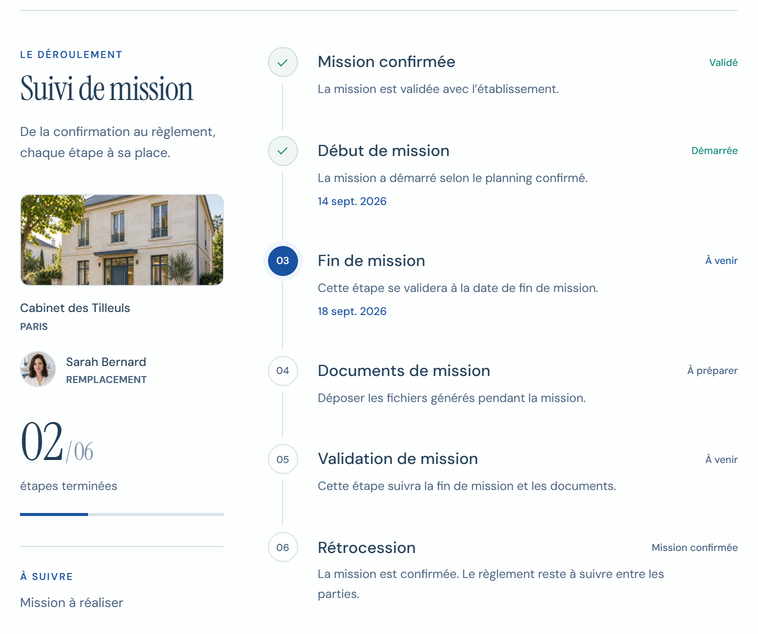
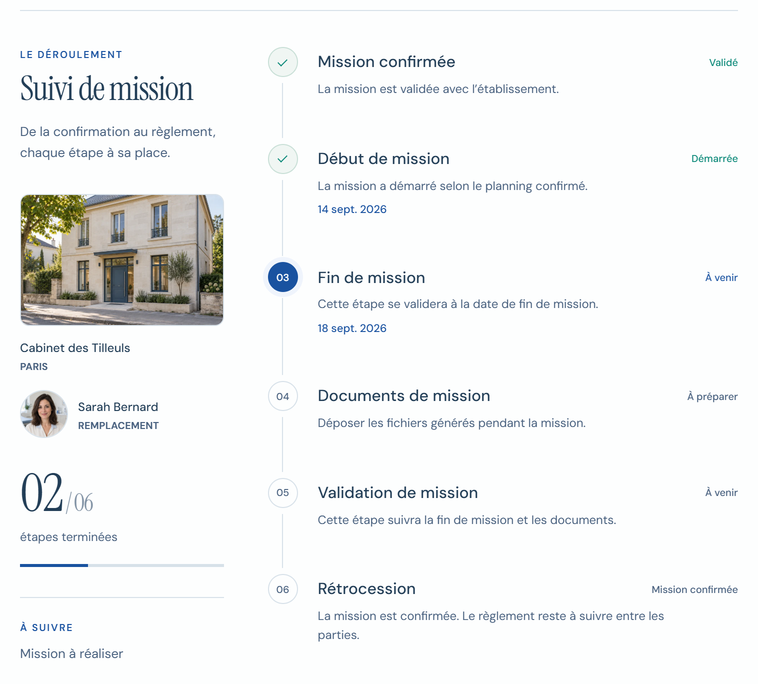
fix: refine landing preview corners and enlarge interface photos

diff --git a/medilink-frontend-v2-polished/app/workspace-messages.css b/medilink-frontend-v2-polished/app/workspace-messages.css
@@ -47,7 +47,7 @@
 .workspace-design .message-layout--editorial .conversation-mobile-search svg { flex-shrink: 0; color: var(--brand-muted); }
 .workspace-design .message-layout--editorial .conversation-mobile-search input { font-size: 12px; }
 .workspace-design .message-layout.message-layout--editorial .conversation-button {
-  grid-template-columns: 40px minmax(0, 1fr);
+  grid-template-columns: 52px minmax(0, 1fr);
   align-items: start;
   gap: 11px;
   padding: 17px 12px;
@@ -62,8 +62,8 @@
 }
 .workspace-design .message-layout--editorial .conversation-button:hover { background: var(--brand-mist); }
 .workspace-design .message-layout.message-layout--editorial .conversation-mobile-avatar {
-  width: 40px;
-  height: 40px;
+  width: 52px;
+  height: 52px;
   border: 0;
   border-radius: 50%;
   background: transparent;
@@ -73,6 +73,7 @@
 }
 .workspace-design .message-layout.message-layout--editorial .conversation-photo--establishment { border-radius: 12px; }
 .workspace-design .message-layout--editorial .conversation-header-title-wrapper { gap: 13px; }
+.workspace-design .message-layout--editorial .conversation-header-photo { width: 64px; height: 64px; }
 .workspace-design .message-layout--editorial .conversation-title-meta { min-width: 0; }
 .workspace-design .message-layout--editorial .conversation-mobile-head { gap: 5px; }
 .workspace-design .message-layout--editorial .conversation-mobile-head strong { font-size: 13px; line-height: 1.5; font-weight: 600; }
@@ -175,7 +176,7 @@
 }
 .workspace-design .message-layout--editorial .message-row.mine { flex-direction: row-reverse; margin-left: auto; }
 .workspace-design .message-layout--editorial .message-row > .message { max-width: none; min-width: 0; margin-left: 0; }
-.workspace-design .message-layout--editorial .message-sender-photo { width: 34px; height: 34px; margin-bottom: 2px; font-size: 15px; }
+.workspace-design .message-layout--editorial .message-sender-photo { width: 50px; height: 50px; margin-bottom: 2px; font-size: 19px; }
 .workspace-design .message-layout--editorial .message .small { margin-top: 11px; color: var(--brand-muted); font-size: 9px; }
 .workspace-design .message-layout.message-layout--editorial .message-form {
   align-items: center;
@@ -229,7 +230,7 @@
   .workspace-design .message-layout--editorial .conversation-header-top { flex: 1 1 100%; }
   .workspace-design .message-layout--editorial .conversation-title-meta h2 { font-size: 24px; line-height: 1.1; }
   .workspace-design .message-layout--editorial .conversation-header-title-wrapper { gap: 9px; }
-  .workspace-design .message-layout--editorial .conversation-header-photo { width: 38px; height: 38px; }
+  .workspace-design .message-layout--editorial .conversation-header-photo { width: 52px; height: 52px; }
   .workspace-design .message-layout--editorial .conversation-subtitle { margin-top: 6px; font-size: 10px; }
   .workspace-design .message-layout--editorial .conversation-back-button { width: 32px; height: 44px; min-width: 32px; padding: 0; border: 0; background: transparent; box-shadow: none; }
   .workspace-design .message-layout--editorial .conversation-header-actions { margin-left: 44px; gap: 14px; flex-wrap: wrap; }
@@ -243,7 +244,7 @@
   .workspace-design .message-layout--editorial .message:not(.system) { max-width: 91%; padding: 13px 15px 10px; font-size: 13px; line-height: 1.65; }
   .workspace-design .message-layout--editorial .message-row { max-width: 100%; gap: 8px; }
   .workspace-design .message-layout--editorial .message-row > .message { max-width: none; }
-  .workspace-design .message-layout--editorial .message-sender-photo { width: 32px; height: 32px; }
+  .workspace-design .message-layout--editorial .message-sender-photo { width: 44px; height: 44px; }
   .workspace-design .message-layout--editorial .message .small { margin-top: 9px; }
   .workspace-design .message-layout.message-layout--editorial .message-form { margin: 0 17px; padding: 13px 0 16px; gap: 9px; }
   .workspace-design .message-layout--editorial .message-form .textarea { min-height: 48px; padding: 12px; font-size: 16px; }

diff --git a/medilink-frontend-v2-polished/components/ReplacementDossier.tsx b/medilink-frontend-v2-polished/components/ReplacementDossier.tsx
@@ -6,13 +6,18 @@ import { api, apiFetch, ApiError, getApiUrl, isMockStorageUrl, openDocumentPrevi
 import { errorMessage } from '@/lib/user-facing';
 import { currentDossierDocument, dossierCategories, dossierCategoryFor, dossierDate, dossierDocumentHints, dossierDocumentIsCurrent, dossierDocumentLabels, dossierFieldLabels, dossierKindAllowsMultiple, dossierRecipientLabels, dossierUploadKinds, type DossierCategory, type DossierDocument, type DossierDocumentKind, type DossierRecipientType, type DossierUploadKind, type ReplacementDetails, type ReplacementDossierData } from '@/lib/replacement-dossier';
 import { Alert, Button, Field, Input, Select, Textarea } from '@/components/ui';
+import { ProfileAvatar } from '@/components/ProfileAvatar';
 
 type UploadResponse = { documentId: string; uploadUrl: string; method: string; headers: Record<string, string> };
 type Panel = 'details' | 'upload' | 'send' | 'manage' | null;
 type RegisterRow = { kind: DossierDocumentKind; document?: DossierDocument } | { kind: 'PLATFORM_RECEIPT' };
+type DossierPresentation = {
+  establishment?: { name: string; imageUrl?: string | null; city?: string | null };
+  replacement?: { name: string; imageUrl?: string | null };
+};
 const PAGE_SIZE = 3;
 
-export function ReplacementDossier({ applicationId, viewer, conversationId, paymentReleased = false }: { applicationId: string; viewer: 'candidate' | 'establishment'; conversationId?: string; paymentReleased?: boolean }) {
+export function ReplacementDossier({ applicationId, viewer, conversationId, paymentReleased = false, presentation }: { applicationId: string; viewer: 'candidate' | 'establishment'; conversationId?: string; paymentReleased?: boolean; presentation?: DossierPresentation }) {
   const path = `/applications/${applicationId}/dossier`;
   const registerId = useId();
   const [category, setCategory] = useState<DossierCategory>('replacement');
@@ -255,6 +260,27 @@ export function ReplacementDossier({ applicationId, viewer, conversationId, paym
       <div><span className="rd-eyebrow">Le dossier partagé</span><h2>Vos <em>documents.</em></h2></div>
       <span className="rd-shared" aria-label="Espace partagé"><FolderOpen size={21} strokeWidth={1.3} /></span>
     </header>
+
+    {presentation?.establishment || presentation?.replacement ? (
+      <div className="rd-participants" role="group" aria-label="Établissement et profil du remplaçant">
+        {presentation.establishment ? (
+          <div className="rd-participant rd-place">
+            <ProfileAvatar src={presentation.establishment.imageUrl} name={presentation.establishment.name} className="rd-place-photo" decorative />
+            <div className="rd-participant-details">
+              <span>Établissement</span>
+              <strong>{presentation.establishment.name}</strong>
+              {presentation.establishment.city ? <small>{presentation.establishment.city}</small> : null}
+            </div>
+          </div>
+        ) : null}
+        {presentation.replacement ? (
+          <div className="rd-participant rd-replacement">
+            <ProfileAvatar src={presentation.replacement.imageUrl} name={presentation.replacement.name} className="rd-replacement-photo" decorative />
+            <div className="rd-participant-details"><span>Remplaçant</span><strong>{presentation.replacement.name}</strong></div>
+          </div>
+        ) : null}
+      </div>
+    ) : null}
 
     <div className="rd-mission-context">
       <p>{dossier.details.holderName || 'Médecin remplacé'}<span aria-hidden="true"> & </span>{dossier.details.replacementName || 'Remplaçant'}</p>

diff --git a/medilink-frontend-v2-polished/app/(public-home)/interface-previews.css b/medilink-frontend-v2-polished/app/(public-home)/interface-previews.css
@@ -31,7 +31,11 @@ html body.landing-home:not(.persona-page) .ml-interface-preview {
   background: transparent;
   box-shadow: none;
 }
-.landing-home .ml-interface-open picture { position: relative; display: block; overflow: hidden; background: var(--brand-paper); }
+.landing-home .ml-interface-open picture { position: relative; display: block; overflow: hidden; border-radius: var(--ml-interface-capture-radius, 0); background: var(--brand-paper); }
+/* Follow the native corners at every rendered size, hiding the page background
+   captured outside them without cutting through the application's own border. */
+.landing-home .ml-interface-preview--messages picture { --ml-interface-capture-radius: calc(100% * 22 / var(--ml-capture-width)) / calc(100% * 22 / var(--ml-capture-height)); }
+.landing-home .ml-interface-preview--documents picture { --ml-interface-capture-radius: calc(100% * 14 / var(--ml-capture-width)) / calc(100% * 14 / var(--ml-capture-height)); }
 .landing-home .ml-interface-open img { display: block; width: 100%; height: auto; max-width: 100%; }
 .landing-home .ml-interface-open:focus-visible { outline: 2px solid var(--brand-focus); outline-offset: 5px; border-radius: 24px; }
 .landing-home .ml-interface-preview--wide .ml-interface-stage { padding: 36px; }
@@ -54,13 +58,15 @@ html body.landing-home:not(.persona-page) .ml-interface-preview {
 @media (max-width: 700px) {
   html body.landing-home:not(.persona-page) .ml-interface-preview { width: 100%; max-width: 440px; margin-inline: auto; }
   .landing-home .ml-interface-preview .ml-interface-stage { padding: 22px 18px; border-radius: 24px; }
-  .landing-home .ml-interface-window { width: min(100%, 310px); margin-inline: auto; padding: 6px; border: 1px solid #bdccde; border-radius: 26px; background: #fdfefe; box-shadow: 0 20px 35px -21px #1e42655c, 0 2px 5px #1e42650a; }
-  .landing-home .ml-interface-open picture { border-radius: 20px; }
+  .landing-home .ml-interface-window { --ml-phone-radius: 26px; --ml-phone-inset: 6px; width: min(100%, 310px); margin-inline: auto; padding: var(--ml-phone-inset); border: 1px solid #bdccde; border-radius: var(--ml-phone-radius); background: #fdfefe; box-shadow: 0 20px 35px -21px #1e42655c, 0 2px 5px #1e42650a; }
+  .landing-home .ml-interface-open picture { border-radius: calc(var(--ml-phone-radius) - var(--ml-phone-inset) - 1px); }
   /* A complete group of mission steps; the enlargement retains all six. */
   .landing-home .ml-interface-preview--mission picture { aspect-ratio: var(--ml-mission-preview-ratio); }
   .landing-home .ml-interface-preview--mission picture::after { content: ''; position: absolute; inset: auto 0 0; height: 24px; background: linear-gradient(transparent, var(--brand-paper)); pointer-events: none; }
-  /* The complete compact document list, including its contextual actions. */
-  .landing-home .ml-interface-preview--documents picture { aspect-ratio: var(--ml-documents-preview-ratio); }
+  /* Keep the complete document card inside the phone's screen curve. Its native
+     border must not meet (and be cut off by) the larger screen radius. */
+  .landing-home .ml-interface-preview--documents picture { padding: 10px; }
+  .landing-home .ml-interface-preview--documents img { border-radius: calc(100% * 12 / var(--ml-mobile-capture-width)) / calc(100% * 12 / var(--ml-mobile-capture-height)); }
   .ml-interface-dialog { width: calc(100vw - 16px); max-height: calc(100dvh - 16px); border-radius: 14px; }
   .ml-interface-dialog-head { align-items: flex-start; gap: 14px; padding: 16px; }
   .ml-interface-dialog-head h2 { font-size: 22px; }

diff --git a/medilink-frontend-v2-polished/app/replacement-dossier.css b/medilink-frontend-v2-polished/app/replacement-dossier.css
@@ -23,6 +23,15 @@
 .replacement-dossier .rd-heading h2 { margin: 8px 0 0; font: 400 40px/1.08 var(--brand-serif); letter-spacing: -.025em; }
 .replacement-dossier .rd-heading h2 em { color: var(--rd-blue); font-weight: 400; }
 .replacement-dossier .rd-shared { display: grid; place-items: center; flex-shrink: 0; width: 43px; height: 43px; border: 1px solid #dce6f0; border-radius: 50%; color: #6784a2; background: #f2f6fa; }
+.replacement-dossier .rd-participants { display: flex; align-items: center; flex-wrap: wrap; gap: 18px 28px; padding-block: 20px; margin-top: 19px; border-block: 1px solid var(--rd-line); }
+.replacement-dossier .rd-participant { display: flex; align-items: center; gap: 13px; flex: 1 1 215px; min-width: 0; }
+.replacement-dossier .rd-place { flex-grow: 1.3; }
+.replacement-dossier .rd-place-photo { width: 100px; height: 72px; border-radius: 11px; }
+.replacement-dossier .rd-replacement-photo { width: 64px; height: 64px; }
+.replacement-dossier .rd-participant-details { display: grid; gap: 5px; min-width: 0; }
+.replacement-dossier .rd-participant-details > span { color: var(--rd-muted); font-size: 9px; letter-spacing: .09em; text-transform: uppercase; }
+.replacement-dossier .rd-participant-details strong { font-size: 12px; line-height: 1.45; font-weight: 550; overflow-wrap: anywhere; }
+.replacement-dossier .rd-participant-details small { color: var(--rd-muted); font-size: 10px; line-height: 1.4; overflow-wrap: anywhere; }
 .replacement-dossier .rd-mission-context { display: flex; align-items: baseline; justify-content: space-between; gap: 5px 16px; flex-wrap: wrap; margin: 15px 0 22px; color: var(--rd-muted); }
 .replacement-dossier .rd-mission-context p { font-size: 12px; line-height: 1.5; overflow-wrap: anywhere; }
 .replacement-dossier .rd-mission-context p > span { color: #91a3b7; margin-inline: 3px; }
@@ -133,6 +142,10 @@
   .replacement-dossier .rd-heading .rd-eyebrow { font-size: 9px; }
   .replacement-dossier .rd-shared { width: 35px; height: 35px; }
   .replacement-dossier .rd-shared svg { width: 18px; height: 18px; }
+  .replacement-dossier .rd-participants { gap: 15px; padding-block: 16px; margin-top: 17px; }
+  .replacement-dossier .rd-participant { gap: 12px; }
+  .replacement-dossier .rd-place-photo { width: 90px; height: 64px; border-radius: 9px; }
+  .replacement-dossier .rd-replacement-photo { width: 56px; height: 56px; }
   .replacement-dossier .rd-mission-context { display: block; margin: 12px 0 12px; }
   .replacement-dossier .rd-mission-context p { font-size: 11px; }
   .replacement-dossier .rd-mission-context > span { display: block; font-size: 10px; margin-top: 4px; }

diff --git a/medilink-frontend-v2-polished/app/workspace-details.css b/medilink-frontend-v2-polished/app/workspace-details.css
@@ -215,10 +215,10 @@
 /* The people and place come from the mission's existing profiles and photos. */
 .workspace-design .mission-folio-people { display: grid; gap: 16px; min-width: 0; }
 .workspace-design .mission-folio-place { display: grid; gap: 10px; min-width: 0; }
-.workspace-design .mission-folio-place-photo { width: 100%; height: 92px; border-radius: 9px; border: 1px solid var(--brand-line); }
+.workspace-design .mission-folio-place-photo { width: 100%; height: 132px; border-radius: 9px; border: 1px solid var(--brand-line); }
 .workspace-design .mission-folio-place-photo img { object-position: center 58%; }
 .workspace-design .mission-folio-person { display: flex; align-items: center; gap: 10px; min-width: 0; }
-.workspace-design .mission-folio-person > span { width: 36px; height: 36px; }
+.workspace-design .mission-folio-person > span { width: 48px; height: 48px; }
 .workspace-design .mission-folio-people strong { display: block; color: var(--brand-heading); font-size: 12px; font-weight: 500; line-height: 1.4; overflow-wrap: anywhere; }
 .workspace-design :is(.mission-folio-place, .mission-folio-person) > div > span { display: block; margin-top: 3px; color: var(--brand-muted); font-size: 10px; line-height: 1.4; }
 
@@ -599,9 +599,9 @@
   .workspace-design .mission-folio-route .mission-folio-intro p { font-size: 11px; }
   .workspace-design .mission-folio-progress { padding-top: 25px; }
   .workspace-design .mission-folio-people { grid-column: 1 / -1; grid-row: 2; gap: 12px; }
-  .workspace-design .mission-folio-place { grid-template-columns: 76px minmax(0, 1fr); align-items: center; gap: 12px; }
-  .workspace-design .mission-folio-place-photo { width: 76px; height: 54px; border-radius: 7px; }
-  .workspace-design .mission-folio-person > span { width: 30px; height: 30px; }
+  .workspace-design .mission-folio-place { grid-template-columns: 104px minmax(0, 1fr); align-items: center; gap: 12px; }
+  .workspace-design .mission-folio-place-photo { width: 104px; height: 74px; border-radius: 7px; }
+  .workspace-design .mission-folio-person > span { width: 44px; height: 44px; }
   .workspace-design .mission-folio-progress { grid-column: 2; grid-row: 1; }
   .workspace-design .mission-folio-progress > strong { font-size: 38px; }
   .workspace-design .mission-folio-progress > strong > span { font-size: 15px; }

diff --git a/medilink-frontend-v2-polished/app/(platform)/establishment/current-missions/page.tsx b/medilink-frontend-v2-polished/app/(platform)/establishment/current-missions/page.tsx
@@ -1005,7 +1005,28 @@ function MissionControlPanel({
 
       {activeSection === 'documents' ? (
         <div>
-          <ReplacementDossier key={row.application.id} applicationId={row.application.id} viewer="establishment" conversationId={row.conversation?.id} paymentReleased={row.agreement?.status === 'PAYMENT_RELEASED'} />
+          <ReplacementDossier
+            key={row.application.id}
+            applicationId={row.application.id}
+            viewer="establishment"
+            conversationId={row.conversation?.id}
+            paymentReleased={row.agreement?.status === 'PAYMENT_RELEASED'}
+            presentation={{
+              establishment: mission?.establishment ? {
+                name: mission.establishment.name,
+                imageUrl: mission.establishment.photos?.find(photo => photo.isPrimary && photo.url)?.url
+                  || mission.establishment.photos?.find(photo => photo.url)?.url || mission.establishment.logoUrl,
+                city: mission.city || mission.establishment.city,
+              } : undefined,
+              replacement: (profile || row.application.candidate?.profile) ? {
+                name: [
+                  (profile || row.application.candidate?.profile)?.firstName,
+                  (profile || row.application.candidate?.profile)?.lastName,
+                ].filter(Boolean).join(' ') || 'Remplaçant',
+                imageUrl: (profile || row.application.candidate?.profile)?.avatarUrl,
+              } : undefined,
+            }}
+          />
           <details className="replacement-dossier-legacy"><summary>Documents professionnels du candidat</summary><div><CandidateDocumentsPanel
           candidateProfile={candidateProfile}
           loading={profileLoading}

diff --git a/medilink-frontend-v2-polished/app/(platform)/app/current-missions/page.tsx b/medilink-frontend-v2-polished/app/(platform)/app/current-missions/page.tsx
@@ -556,7 +556,17 @@ function MissionControlPanel({ row, activeSection }: { row: MissionRow; activeSe
 
       {activeSection === 'documents' ? (
         <div>
-          <ReplacementDossier key={row.application.id} applicationId={row.application.id} viewer="candidate" conversationId={row.conversation?.id} paymentReleased={row.agreement?.status === 'PAYMENT_RELEASED'} />
+          <ReplacementDossier
+            key={row.application.id}
+            applicationId={row.application.id}
+            viewer="candidate"
+            conversationId={row.conversation?.id}
+            paymentReleased={row.agreement?.status === 'PAYMENT_RELEASED'}
+            presentation={{
+              establishment: establishment ? { name: establishment.name, imageUrl: establishmentPhoto, city: mission?.city || establishment.city } : undefined,
+              replacement: candidateName ? { name: candidateName, imageUrl: candidate?.avatarUrl } : undefined,
+            }}
+          />
           <details className="replacement-dossier-legacy"><summary>Fichiers produits pendant la mission</summary><div><MissionDocumentsPanel row={row} /></div></details>
         </div>
       ) : null}

diff --git a/medilink-frontend-v2-polished/content/landing-interface-preview.ts b/medilink-frontend-v2-polished/content/landing-interface-preview.ts
@@ -16,7 +16,7 @@ export function interfacePreview(name: PreviewName, className: string, title: st
     <a class="ml-interface-open" href="${source(desktop, true)}" target="_blank" rel="noopener" data-interface-preview="${name}" aria-label="Voir l’interface : ${title} (agrandir)">
       <span class="ml-interface-stage">
         <span class="ml-interface-window">
-          <picture>
+          <picture style="--ml-capture-width:${desktop.width};--ml-capture-height:${desktop.height};--ml-mobile-capture-width:${mobile.width};--ml-mobile-capture-height:${mobile.height}">
             <source media="(max-width: 700px)" srcset="${source(mobile)} 1x, ${source(mobile, true)} 2x" width="${mobile.width}" height="${mobile.height}">
             <img src="${source(desktop)}" srcset="${source(desktop)} 1x, ${source(desktop, true)} 2x" width="${desktop.width}" height="${desktop.height}" alt="${alt}" loading="lazy" decoding="async">
           </picture>

diff --git a/medilink-frontend-v2-polished/public/landing-assets/interface/README.md b/medilink-frontend-v2-polished/public/landing-assets/interface/README.md
@@ -16,7 +16,7 @@ The captures use French locale, Europe/Paris time and a fixed 16 September 2026 
 
 - Messages: `/app/messages?id=c1`, the native `.message-layout` component. Desktop includes the conversation list; mobile shows the selected conversation. General application navigation and the page title stay outside the crop. The viewport height is calculated from the real rendered messages to keep all three text bubbles and the complete composer visible.
 - Mission: `/app/current-missions`, the real mission timeline with its establishment photo and candidate profile. The 1100 px desktop viewport keeps the native two-column timeline; mobile remains at 390 px. The viewport grows to keep fixed navigation outside the image. The mobile `previewHeight` is measured after the third complete step; enlargement shows all six.
-- Documents: `/app/current-missions?section=documents`, the real shared replacement dossier. The fixture contains a prepared contract, a declaration, an Ordre registration certificate and RCP insurance; it does not claim an electronic signature or an Ordre approval. The native `.replacement-dossier` component is captured with its actions and document states. The mobile viewport remains at 390 px. Its height grows to keep fixed navigation outside the capture. The homepage mobile preview stops after the first complete supporting-document row, using the measured `previewHeight`; enlargement shows the complete dossier including transmission.
+- Documents: `/app/current-missions?section=documents`, the real shared replacement dossier, with the establishment photograph and replacement profile from the mission. Their account identities remain separate from the contract's names and dates. The fixture contains a prepared contract, an Ordre registration certificate, RCP insurance, bank details and an amendment; the letter to the Ordre remains to generate. It does not claim an electronic signature or an Ordre approval. The native `.replacement-dossier` component is captured with the selected register category/page, all its actions and document states. The mobile viewport remains at 390 px. Its height grows to keep fixed navigation outside the capture. The homepage preview and enlargement retain the complete selected page, including transmission and history.
 
 `manifest.json` records the source routes, viewport sizes, crops, output dimensions, browser version and SHA-256 of each 2× image. Both 1× and 2× files are lossless WebP. Regenerate the whole set after interface changes; do not retouch the UI inside individual images.
 

diff --git a/medilink-frontend-v2-polished/AGENTS.md b/medilink-frontend-v2-polished/AGENTS.md
@@ -10,6 +10,8 @@ This block is written and re-added by `next dev` — verify at `node_modules/nex
 
 ## Landing pages and SEO
 
+The user subsequently requested larger portraits and establishment photos inside the genuine interface previews, including the shared document dossier. Keep these sizes readable in the actual messages/mission screens and display the dossier's establishment and replacement profile from existing mission data, with initials when photos are unavailable. Keep the contract's holder/replacement names separate from account identity. Regenerate all three desktop/mobile capture sets after these changes. Preserve the landing's corrected corners: source-sized radii scale using manifest dimensions, and the mobile document card sits inside the phone screen with its complete border visible.
+
 The user requested generated human portraits and an establishment photograph inside the landing's interface previews. The fictional assets and generation prompts are in `public/landing-assets/people/`, supplied only by `scripts/fixtures/landing-interface.mjs`. The real `MessageCenter` and mission timeline display existing profile/establishment image URLs through `ProfileAvatar`, with initials on missing or failed images. Never use fictional photos as defaults for real accounts. Preserve the blue/porcelain editorial styling, surrounding landing copy, process animations and documents preview. Regenerate genuine messages/mission captures after changes. The mobile mission crop uses the manifest's measured `previewHeight` to keep the first three steps complete; its enlargement keeps all six.
 
 The user subsequently approved removing the desktop window decoration from all three landing captures: no top toolbar, dots, title/ML mark, added border or window shadow. Keep the underlying application captures and soft stage background; the mobile phone frame remains. The visible “Voir l’interface” / “Agrandir l’aperçu” links and their reserved bottom space are removed on all screen sizes. The image itself remains an accessible link to its enlargement. This supersedes the earlier desktop window and visible enlargement-link requirements below.
